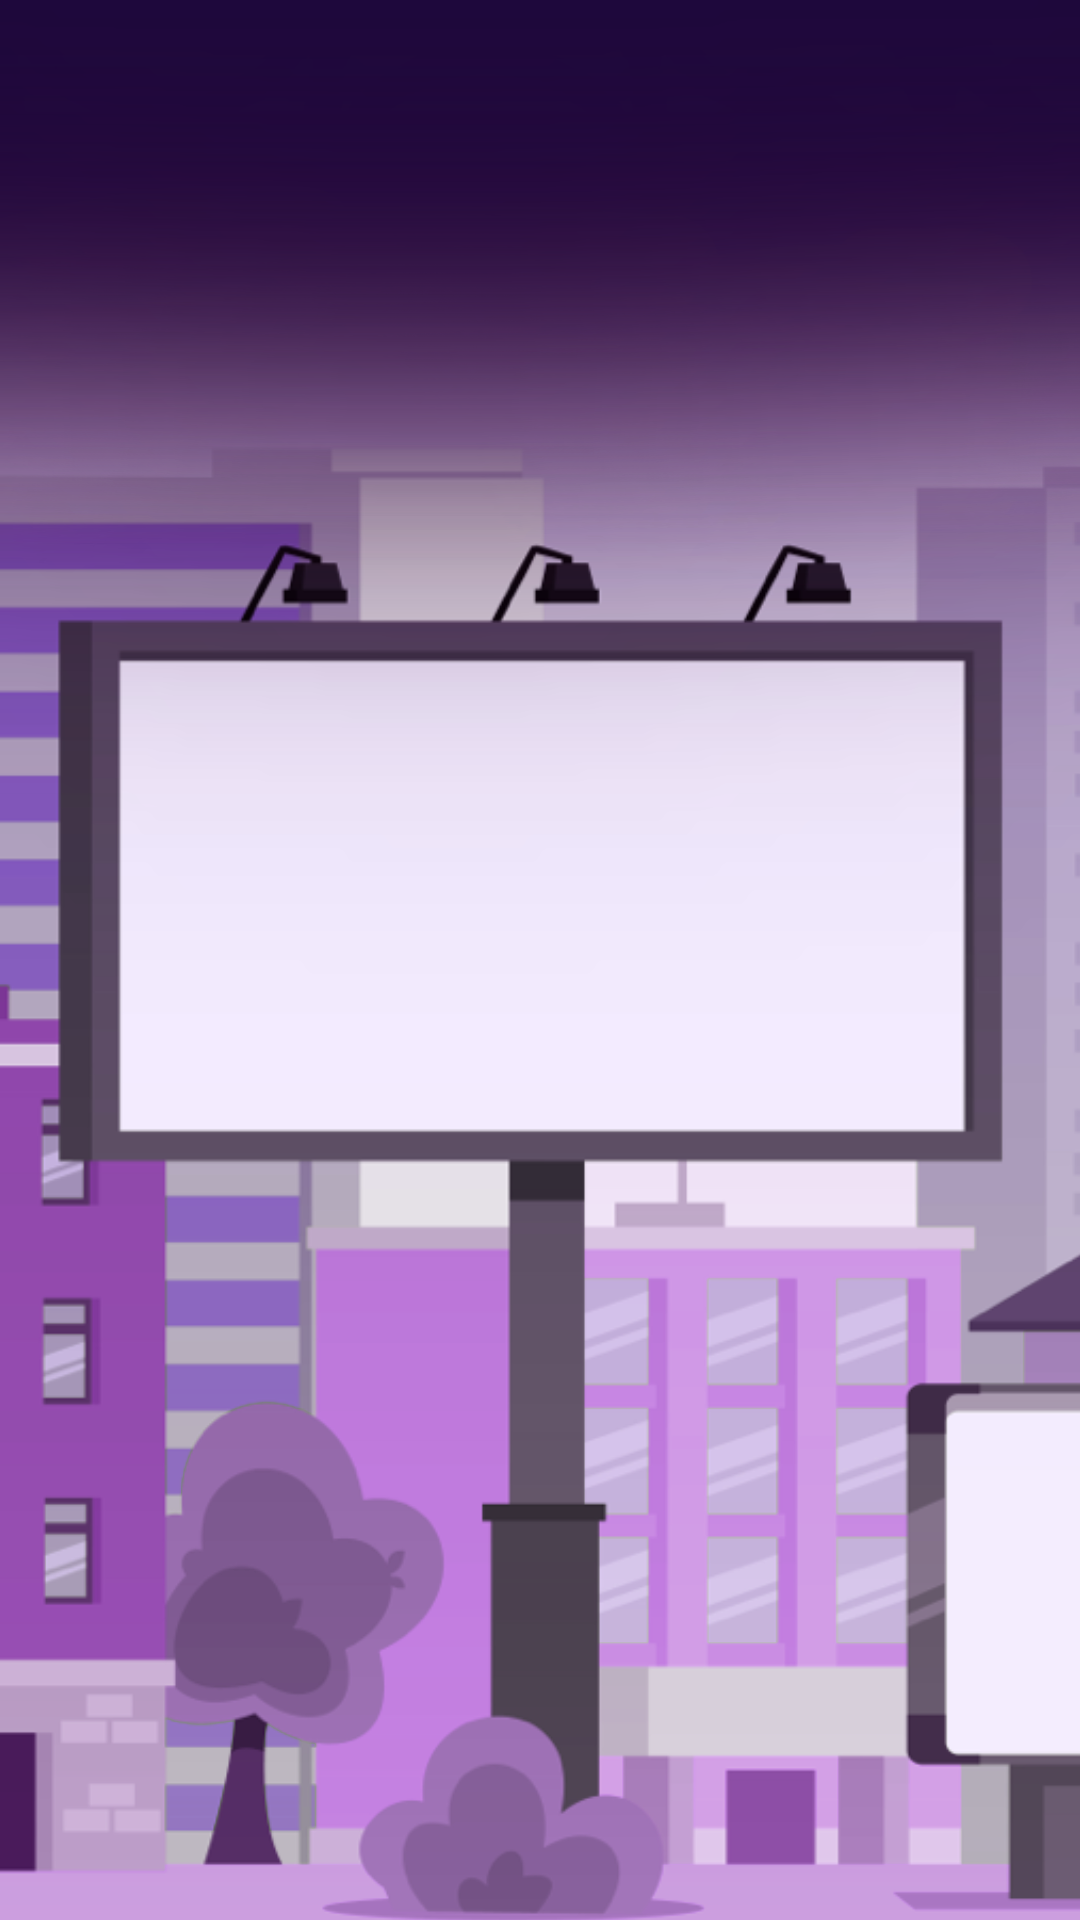
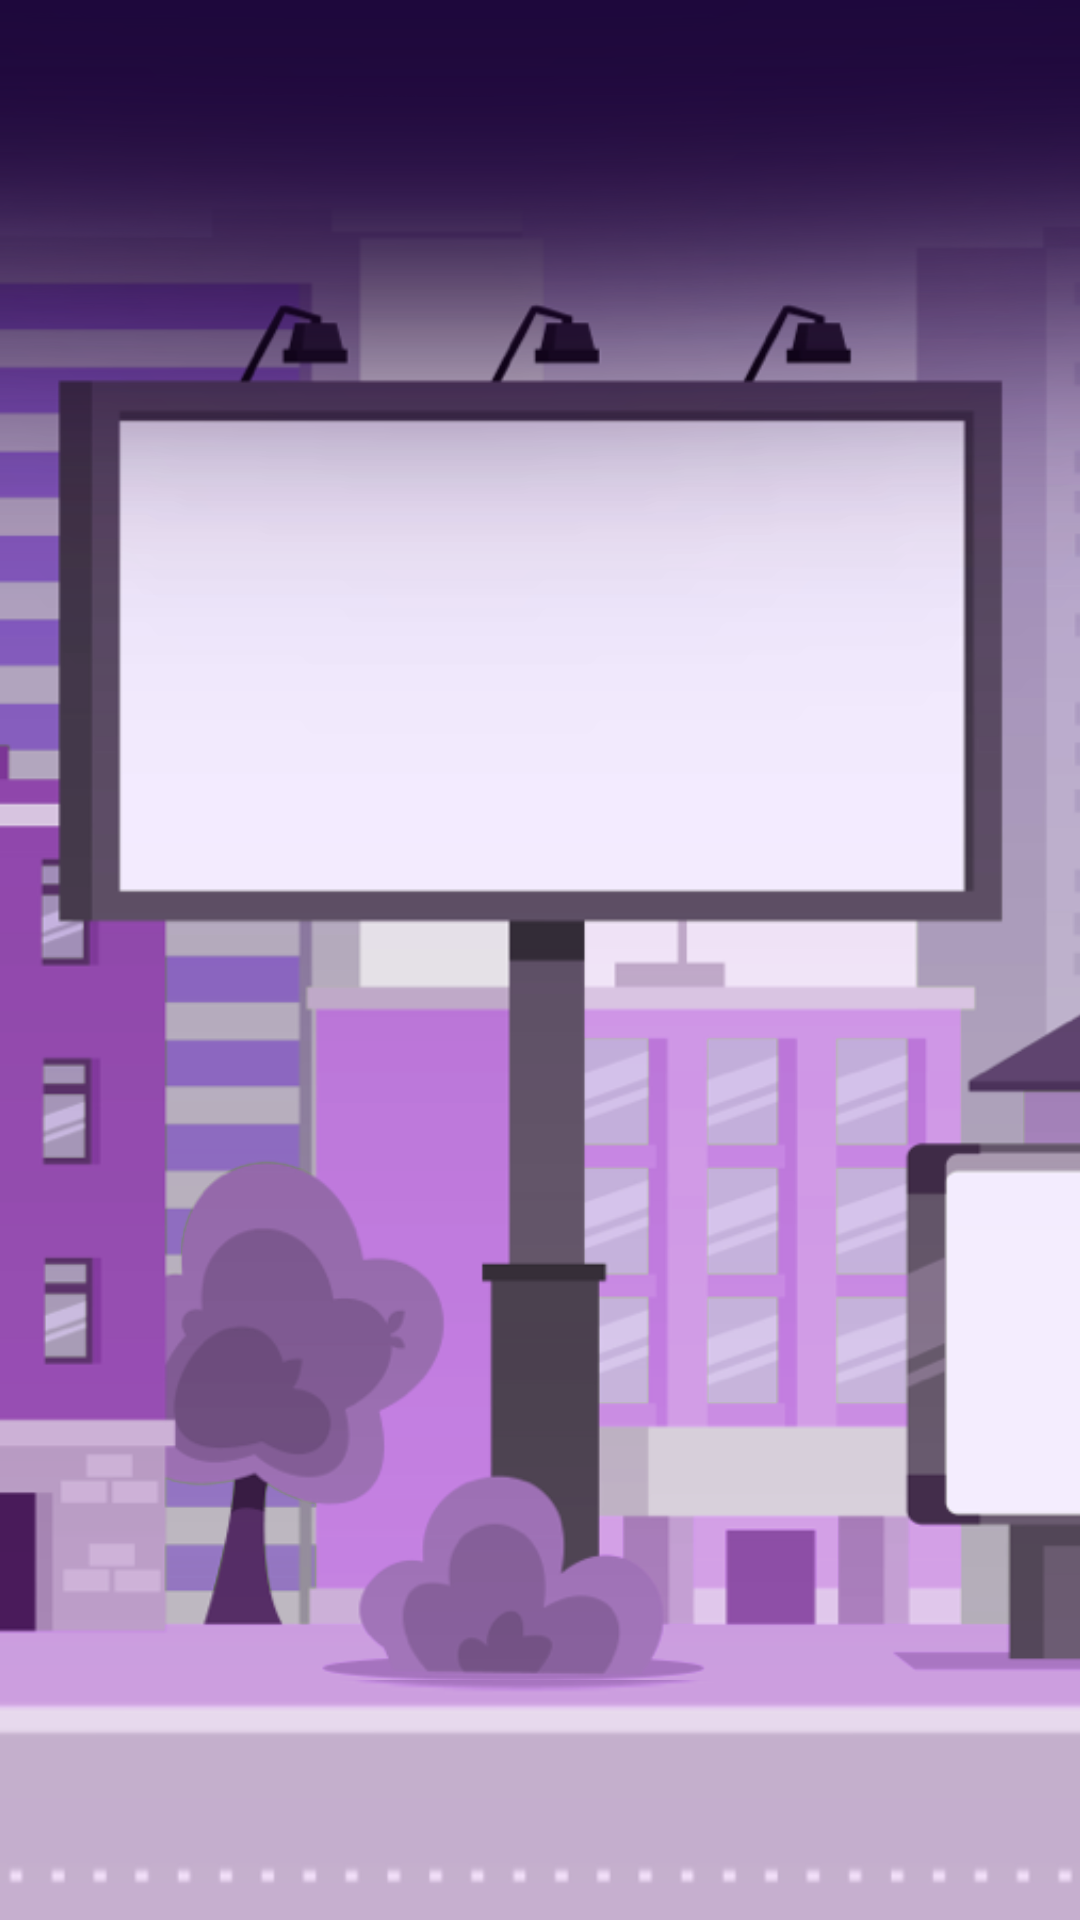
Update gameplay background and adjust text placement for flash
Replace billboard background image and reposition overlay CSS, removing vertical text offset.

Replit-Commit-Author: Agent
Replit-Commit-Session-Id: 3c163881-69bf-4327-a144-666fc16f3890
Replit-Commit-Checkpoint-Type: full_checkpoint
Replit-Commit-Event-Id: 8af6006d-8434-4847-80e7-11406878734b
Replit-Commit-Screenshot-Url: https://storage.googleapis.com/screenshot-production-us-central1/84807785-231d-438c-bf07-d814810bda21/3c163881-69bf-4327-a144-666fc16f3890/bcbgVBS
Replit-Helium-Checkpoint-Created: true

diff --git a/artifacts/flash/src/index.css b/artifacts/flash/src/index.css
@@ -428,19 +428,17 @@ html, body, #root {
 }
 
 /* Billboard content overlay — positioned over the white rectangle in the image */
-/* Image is 1080×1920. White rectangle ≈ top 25%–53%, left 10%–90% */
+/* New image: billboard panel ≈ top 17%–48%, left 5%–95% */
 .bb-overlay {
   position: absolute;
   z-index: 20;
-  /* These values overlay the white billboard rectangle */
-  top: 24.5%;
-  left: 9%;
-  right: 9%;
-  height: 28%;
+  top: 17%;
+  left: 5%;
+  right: 5%;
+  height: 31%;
   display: flex;
   align-items: center;
   justify-content: center;
-  overflow: hidden;
 }
 
 .bb-center {
@@ -523,7 +521,6 @@ html, body, #root {
   line-height: 1;
   word-break: break-word;
   padding: 0 8px;
-  transform: translateY(270px);
   text-shadow: 3.5px 3.5px 0px #ffffff;
 }
 
